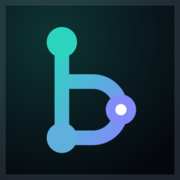
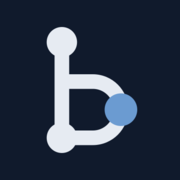
Clean the website

Changed region(s): [[0.25, 0.1389, 0.7778, 0.8611], [0.0278, 0.5278, 0.9722, 0.9722], [0.0, 0.0, 0.7778, 0.6389]]

diff --git a/app/components/network-background.tsx b/app/components/network-background.tsx
@@ -10,8 +10,8 @@ const LINK_DISTANCE_SQ = LINK_DISTANCE ** 2;
 const MOUSE_DISTANCE = 200;
 const PACKET_RADIUS = 6;
 const MAX_PACKETS = 18;
-const ACCENT = "45, 212, 191";
-const ACCENT_2 = "129, 140, 248";
+const ACCENT = "107, 155, 209";
+const ACCENT_2 = "169, 188, 216";
 
 // Animated network topology: drifting nodes, links between neighbors,
 // and "packets" travelling along those links.
@@ -30,8 +30,8 @@ export default function NetworkBackground() {
     sprite.width = sprite.height = PACKET_RADIUS * 4;
     const spriteCtx = sprite.getContext("2d")!;
     const glow = spriteCtx.createRadialGradient(PACKET_RADIUS * 2, PACKET_RADIUS * 2, 0, PACKET_RADIUS * 2, PACKET_RADIUS * 2, PACKET_RADIUS * 2);
-    glow.addColorStop(0, "rgba(255, 255, 255, 0.95)");
-    glow.addColorStop(0.4, `rgba(${ACCENT}, 0.6)`);
+    glow.addColorStop(0, "rgba(225, 234, 245, 0.8)");
+    glow.addColorStop(0.4, `rgba(${ACCENT}, 0.35)`);
     glow.addColorStop(1, `rgba(${ACCENT}, 0)`);
     spriteCtx.fillStyle = glow;
     spriteCtx.fillRect(0, 0, sprite.width, sprite.height);
@@ -81,7 +81,7 @@ export default function NetworkBackground() {
           if (distSq > LINK_DISTANCE_SQ) continue;
 
           const dist = Math.sqrt(distSq);
-          ctx.strokeStyle = `rgba(${ACCENT}, ${(1 - dist / LINK_DISTANCE) * 0.18})`;
+          ctx.strokeStyle = `rgba(${ACCENT}, ${(1 - dist / LINK_DISTANCE) * 0.14})`;
           ctx.lineWidth = 1;
           ctx.beginPath();
           ctx.moveTo(a.x, a.y);
@@ -98,7 +98,7 @@ export default function NetworkBackground() {
       for (const n of nodes) {
         const dist = Math.hypot(n.x - mouse.x, n.y - mouse.y);
         if (dist > MOUSE_DISTANCE) continue;
-        ctx.strokeStyle = `rgba(${ACCENT_2}, ${(1 - dist / MOUSE_DISTANCE) * 0.45})`;
+        ctx.strokeStyle = `rgba(${ACCENT_2}, ${(1 - dist / MOUSE_DISTANCE) * 0.3})`;
         ctx.beginPath();
         ctx.moveTo(mouse.x, mouse.y);
         ctx.lineTo(n.x, n.y);
@@ -106,7 +106,7 @@ export default function NetworkBackground() {
       }
 
       for (const n of nodes) {
-        ctx.fillStyle = `rgba(${ACCENT}, 0.7)`;
+        ctx.fillStyle = `rgba(${ACCENT}, 0.5)`;
         ctx.beginPath();
         ctx.arc(n.x, n.y, n.r, 0, Math.PI * 2);
         ctx.fill();
@@ -157,8 +157,8 @@ export default function NetworkBackground() {
   return (
     <div aria-hidden className="pointer-events-none fixed inset-0 -z-10 overflow-hidden print:hidden">
       {/* Soft glows via radial gradients; a CSS blur filter here is expensive to animate. */}
-      <div className="animate-drift absolute -top-1/4 -left-1/4 h-[70vmax] w-[70vmax] bg-[radial-gradient(circle,rgb(45_212_191/0.1),transparent_65%)] will-change-transform" />
-      <div className="animate-drift absolute -right-1/4 -bottom-1/4 h-[60vmax] w-[60vmax] bg-[radial-gradient(circle,rgb(129_140_248/0.1),transparent_65%)] will-change-transform [animation-delay:-12s]" />
+      <div className="animate-drift absolute -top-1/4 -left-1/4 h-[70vmax] w-[70vmax] bg-[radial-gradient(circle,rgb(107_155_209/0.07),transparent_65%)] will-change-transform" />
+      <div className="animate-drift absolute -right-1/4 -bottom-1/4 h-[60vmax] w-[60vmax] bg-[radial-gradient(circle,rgb(169_188_216/0.05),transparent_65%)] will-change-transform [animation-delay:-12s]" />
       <div className="absolute inset-0 bg-[linear-gradient(to_right,rgb(148_163_184/0.05)_1px,transparent_1px),linear-gradient(to_bottom,rgb(148_163_184/0.05)_1px,transparent_1px)] bg-[size:48px_48px] [mask-image:radial-gradient(ellipse_at_center,black_30%,transparent_75%)]" />
       <canvas ref={canvasRef} className="absolute inset-0 h-full w-full" />
     </div>

diff --git a/app/sections/hero.tsx b/app/sections/hero.tsx
@@ -13,8 +13,7 @@ export default function Hero() {
         <Reveal className="order-2 text-center md:order-1 md:text-left">
           <p className="inline-flex items-center gap-2 rounded-full border border-line bg-surface px-3 py-1 font-mono text-xs text-muted">
             <span className="relative flex size-2">
-              <span className="absolute inline-flex size-full animate-ping rounded-full bg-green-400/60" />
-              <span className="relative inline-flex size-2 rounded-full bg-green-400" />
+              <span className="inline-flex size-2 rounded-full bg-emerald-500" />
             </span>
             {profile.status}
           </p>
@@ -50,7 +49,7 @@ export default function Hero() {
 
         <Reveal delay={0.15} className="order-1 mx-auto md:order-2">
           <div className="relative size-56 sm:size-72">
-            <div className="absolute -inset-1 animate-[spin_8s_linear_infinite] rounded-full bg-[conic-gradient(var(--color-accent),var(--color-accent-2),transparent_60%,var(--color-accent))] opacity-80 will-change-transform" />
+            <div className="absolute -inset-1 animate-[spin_8s_linear_infinite] rounded-full bg-[conic-gradient(var(--color-accent),var(--color-accent-2),transparent_60%,var(--color-accent))] opacity-50 will-change-transform" />
             <Image
               src={portrait}
               alt={profile.name}

diff --git a/app/globals.css b/app/globals.css
@@ -1,13 +1,13 @@
 @import "tailwindcss";
 
 @theme {
-  --color-bg: #05070d;
-  --color-surface: rgb(11 16 27 / 0.82);
+  --color-bg: #0a0f1a;
+  --color-surface: rgb(16 23 38 / 0.82);
   --color-line: rgb(148 163 184 / 0.14);
   --color-fg: #e6edf7;
   --color-muted: #8b97ab;
-  --color-accent: #2dd4bf;
-  --color-accent-2: #818cf8;
+  --color-accent: #6b9bd1;
+  --color-accent-2: #a9bcd8;
 
   --font-sans: var(--font-geist-sans), ui-sans-serif, system-ui, sans-serif;
   --font-mono: var(--font-geist-mono), ui-monospace, monospace;
@@ -35,7 +35,7 @@ body {
 }
 
 ::selection {
-  background: rgb(45 212 191 / 0.3);
+  background: rgb(107 155 209 / 0.3);
 }
 
 @layer components {

diff --git a/app/sections/homelab.tsx b/app/sections/homelab.tsx
@@ -23,8 +23,7 @@ export default function Homelab() {
               <p className="flex items-center gap-2 font-mono text-sm font-medium">
                 {name}
                 <span className="relative flex size-2">
-                  <span className="absolute inline-flex size-full animate-ping rounded-full bg-green-400/60" />
-                  <span className="relative inline-flex size-2 rounded-full bg-green-400" />
+                  <span className="inline-flex size-2 rounded-full bg-emerald-500" />
                 </span>
               </p>
               <p className="mt-1 text-sm text-muted">{description}</p>

diff --git a/app/sections/about.tsx b/app/sections/about.tsx
@@ -25,7 +25,7 @@ export default function About() {
 
       <Reveal delay={0.1}>
         <figure className="card relative mt-8 overflow-hidden p-6 sm:p-8">
-          <div className="absolute -right-16 -bottom-16 size-56 rounded-full bg-accent-2/15 blur-3xl" />
+          <div className="absolute -right-16 -bottom-16 size-56 rounded-full bg-accent/10 blur-3xl" />
           <div className="relative flex flex-col gap-4 sm:flex-row sm:items-center sm:gap-6">
             <LifeBuoy className="size-12 shrink-0 text-accent" strokeWidth={1.5} />
             <div>

diff --git a/app/components/terminal.tsx b/app/components/terminal.tsx
@@ -164,7 +164,7 @@ const commands: Record<string, Command> = {
       print(
         ...homelab.services.map(({ name, description }) => (
           <span key={name}>
-            <span className="text-green-400">●</span> <span className="text-accent">{name.padEnd(16)}</span>
+            <span className="text-emerald-500">●</span> <span className="text-accent">{name.padEnd(16)}</span>
             <span className="text-muted">{description}</span>
           </span>
         )),

diff --git a/app/layout.tsx b/app/layout.tsx
@@ -17,7 +17,7 @@ export const metadata: Metadata = {
 };
 
 export const viewport: Viewport = {
-  themeColor: "#05070d",
+  themeColor: "#0a0f1a",
 };
 
 export default function RootLayout({ children }: { children: ReactNode }) {
